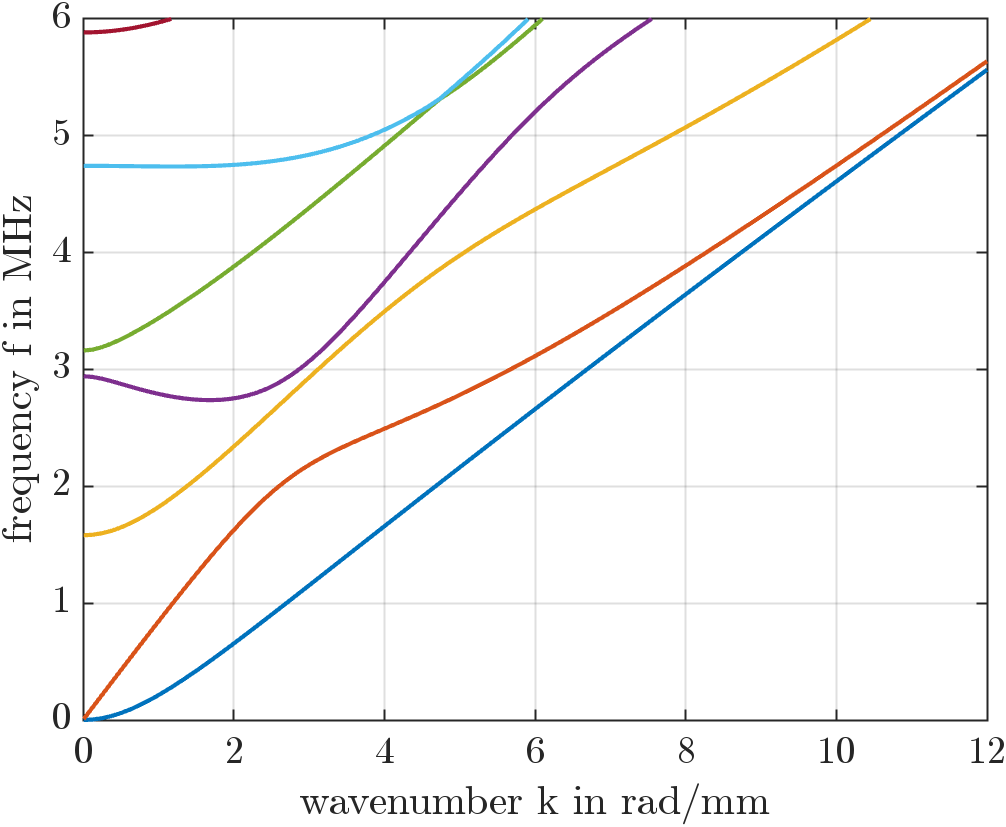
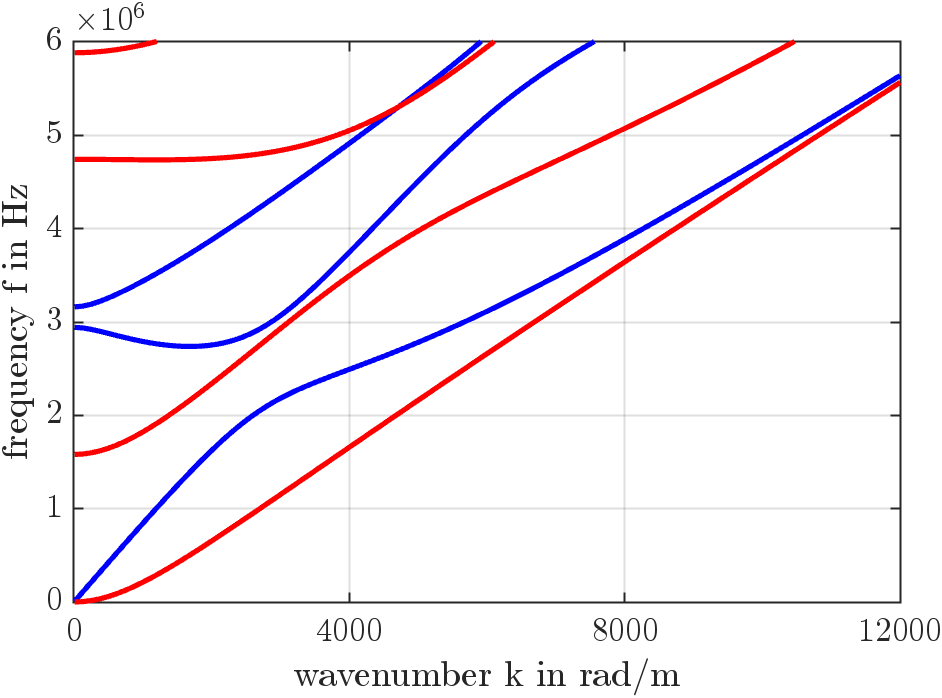
readme.md: example updated.

diff --git a/readme.md b/readme.md
@@ -17,21 +17,22 @@ Code repository: [<img src="https://www.svgrepo.com/show/35001/github.svg" alt="
 ## Example: Lamb waves
 
 ```matlab
-mat = Material('steel');        % load from database (or create your own)
-h = 1e-3;                       % thickness in m
-N = 12;                         % number of nodes (dictates accuracy)
-k = linspace(1e-2, 12, 100)/h;  % wavenumbers to solve for
-plate = Plate(mat, h, N);       % create waveguide description 
-gew = plate.Lamb; tic           % choose waves (assemble matrices) 
-dat = computeW(gew, k, 7); toc  % solve and save 7 modes (argument optional)
-plot(dat.k/1e3, dat.w/2/pi/1e6); ylim([0, 6]);   % plot
-xlabel('wavenumber k in rad/mm'), ylabel('frequency f in MHz')
+mat = Material('steel');         % load from database (or create your own)
+h = 1e-3;                        % thickness in m
+N = 12;                          % number of nodes (dictates accuracy)
+k = linspace(1e-2, 12, 100)/h;   % wavenumbers to solve for
+plate = Plate(mat, h, N);        % create waveguide description 
+gews = plate.LambSA; tic;        % choose sym/anti-sym Lamb waves (assembles matrices)
+dat = computeW(gews, k, 4); toc; % solve and save 4 modes (argument optional)
+plot(dat(1).k, dat(1).w/2/pi, 'b'); hold on;        % plot symmetric
+plot(dat(2).k, dat(2).w/2/pi, 'r'); ylim([0, 6e6]); % plot anti-symmetric
+xlabel('wavenumber k in rad/m'), ylabel('frequency f in Hz')
 ```
 
 output:
-`> Elapsed time is 0.025834 seconds.` 
+`> Elapsed time is 0.010129 seconds.` 
 
-<img src="resourcesAndDeps/img/dispersion_lamb_steel.png" alt="rendering failed" title="Lamb waves in steel" width="450pt">
+<img src="resourcesAndDeps/img/dispersion_lamb_steel.png" alt="rendering failed" title="Lamb waves in steel" width="420pt">
 
 Proceed by inspecting the laser-ultrasonic excitability of the waves computed above (product of tangential and normal displacements ux·uy):
 
